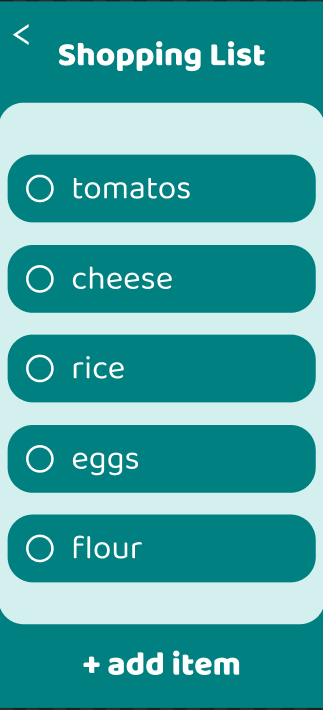
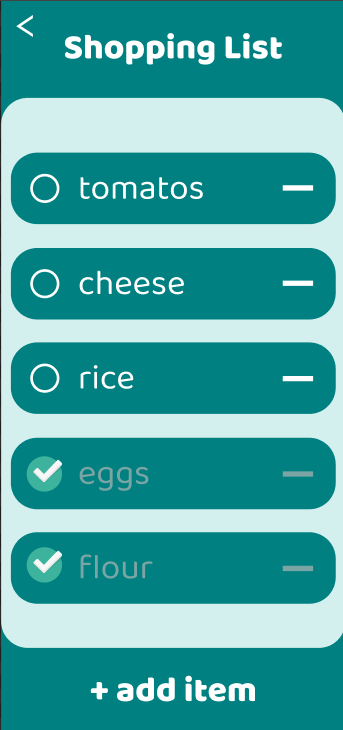
Entfernen von Einkaufsliste

diff --git a/README.md b/README.md
@@ -217,7 +217,7 @@ TODO
 
 #### 2.16.1 GUI-Design
 
-<img src="./pictures/...">
+<img src="./pictures/..." width="200" heigth="100">
 
 TODO
 
@@ -229,9 +229,9 @@ TODO
 
 #### 2.17.1 GUI-Design
 
-<img src="./pictures/...">
+<img src="./pictures/ShoppingList.png" width="200" heigth="100">
 
-TODO
+Zutaten können mithilfe eines Klicks auf den Kreis nebenbei abgehakt werden, bleiben jedoch in der Liste bis man auf das Minus-Zeichen drückt um das Rezept permanent zu löschen. 
 
 #### 2.17.2 Workflow
 
